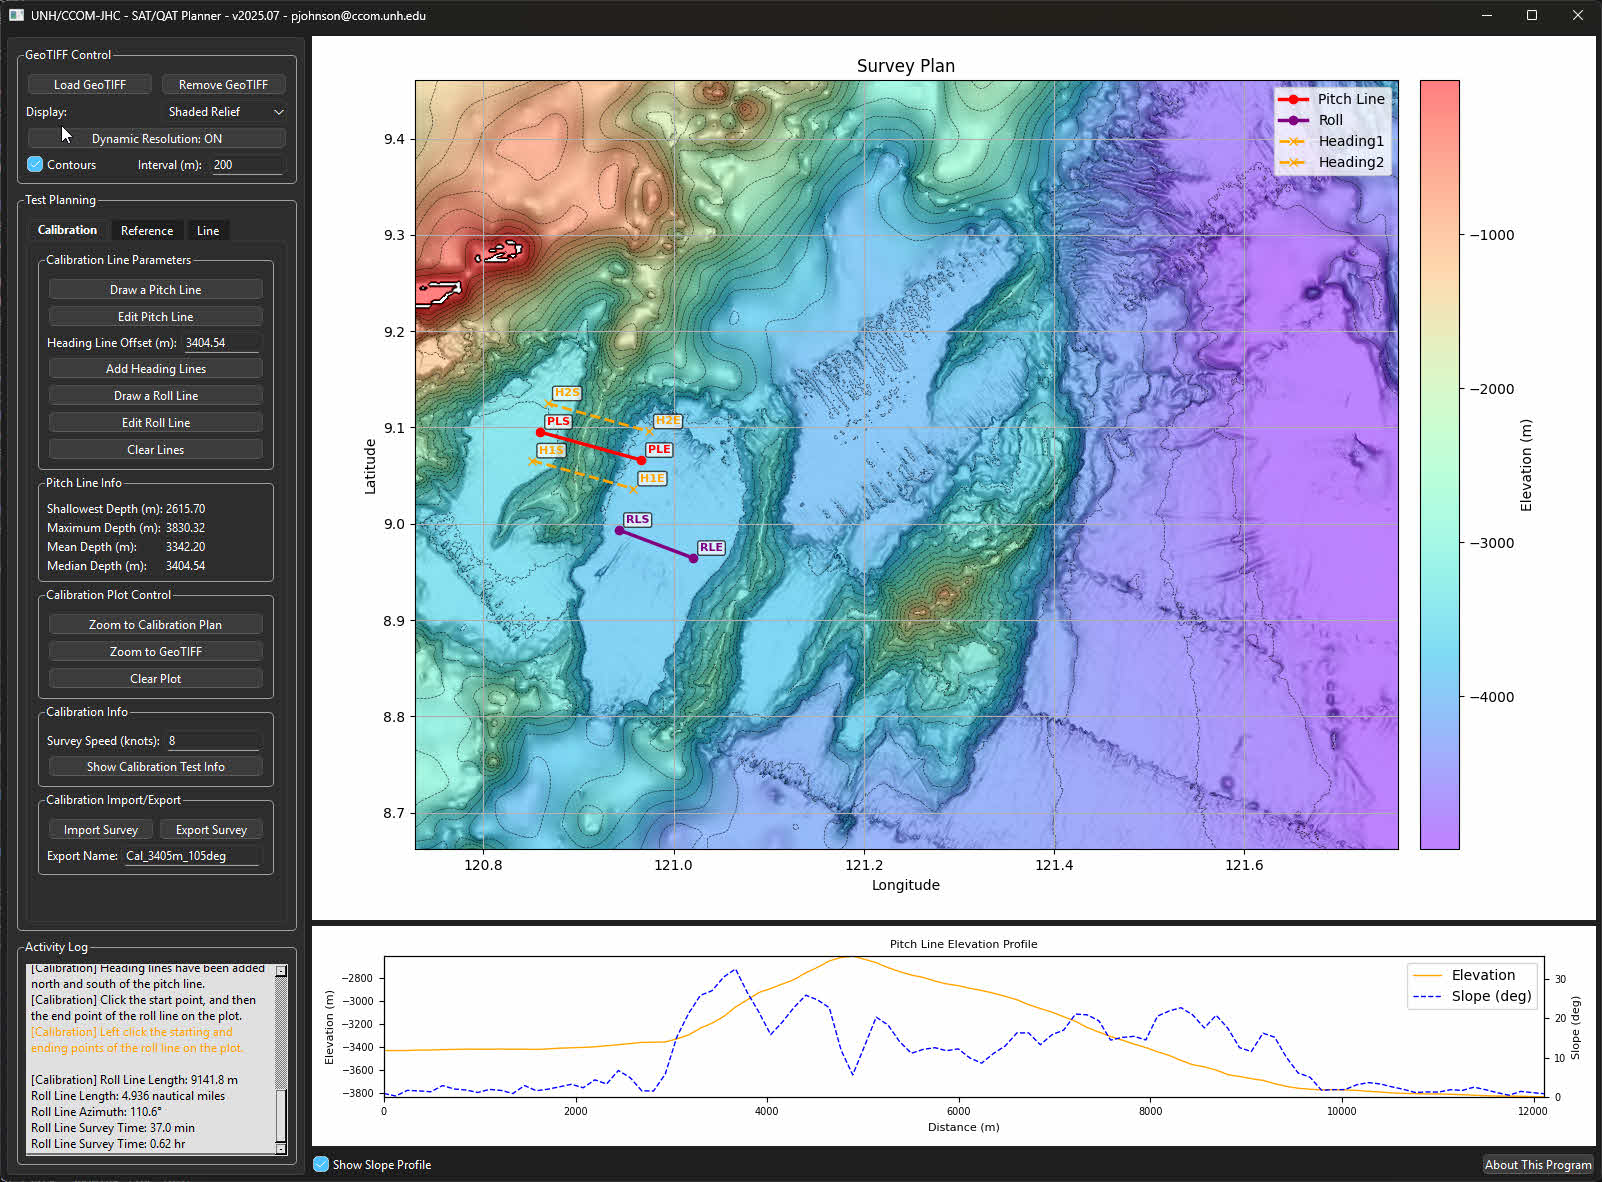
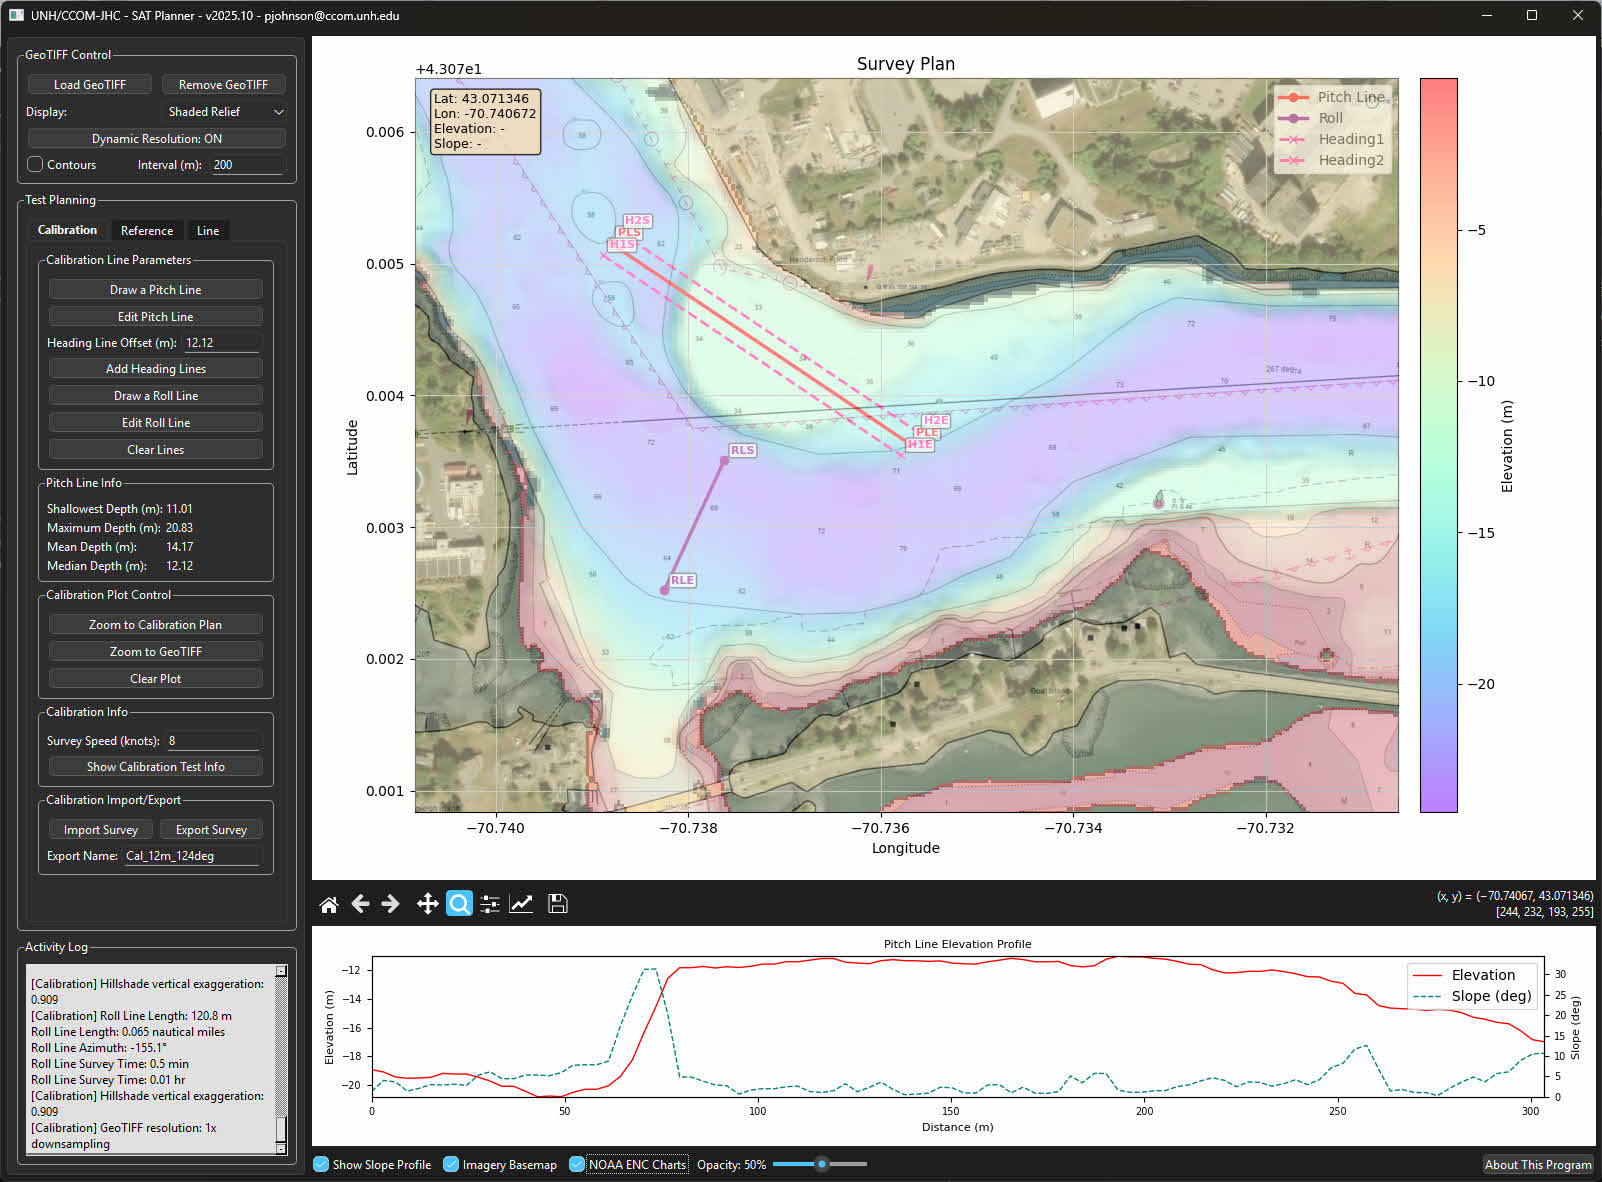
Add navigation toolbar at bottom and fix Dynamic Resolution for toolbar zoom
- Added matplotlib NavigationToolbar at bottom of map window
- Fixed Dynamic Resolution to work with toolbar zoom/pan tools
- Added draw_event handler to detect limit changes for Dynamic Resolution
- Updated README with navigation toolbar and map overlay documentation
- Updated build script and spec file for version 2025.10

diff --git a/SAT_Planner_PyQt.py b/SAT_Planner_PyQt.py
@@ -11,6 +11,7 @@ import matplotlib
 matplotlib.use('QtAgg')
 import matplotlib.pyplot as plt
 from matplotlib.backends.backend_qtagg import FigureCanvasQTAgg as FigureCanvas
+from matplotlib.backends.backend_qtagg import NavigationToolbar2QT as NavigationToolbar
 from matplotlib.colors import LightSource
 from matplotlib.figure import Figure
 import numpy as np
@@ -945,6 +946,9 @@ class SurveyPlanApp(QMainWindow):
         self.cid_middle_release = self.canvas.mpl_connect('button_release_event', self._on_middle_release)
         # Connect draw event for dynamic colormap scaling
         self.cid_draw = self.canvas.mpl_connect('draw_event', self._on_draw_event_update_colormap)
+        # Connect axis limit change events for Dynamic Resolution (toolbar zoom support)
+        self.cid_xlim_changed = self.ax.callbacks.connect('xlim_changed', self._on_axis_limits_changed)
+        self.cid_ylim_changed = self.ax.callbacks.connect('ylim_changed', self._on_axis_limits_changed)
 
         # Initialize buttons states based on library availability
         if not GEOSPATIAL_LIBS_AVAILABLE:
@@ -1976,6 +1980,9 @@ class SurveyPlanApp(QMainWindow):
         self.cid_middle_release = self.canvas.mpl_connect('button_release_event', self._on_middle_release)
         # Connect draw event for dynamic colormap scaling
         self.cid_draw = self.canvas.mpl_connect('draw_event', self._on_draw_event_update_colormap)
+        # Connect axis limit change events for Dynamic Resolution (toolbar zoom support)
+        self.cid_xlim_changed = self.ax.callbacks.connect('xlim_changed', self._on_axis_limits_changed)
+        self.cid_ylim_changed = self.ax.callbacks.connect('ylim_changed', self._on_axis_limits_changed)
 
         # Initialize buttons states based on library availability
         if not GEOSPATIAL_LIBS_AVAILABLE:
@@ -5094,6 +5101,103 @@ class SurveyPlanApp(QMainWindow):
         # Use draw_idle() for non-blocking updates during zoom
         self.canvas.draw_idle()
 
+    def _on_axis_limits_changed(self, ax):
+        """Callback for axis limit changes (e.g., from toolbar zoom/pan)."""
+        print(f"[DYNAMIC RES DEBUG] _on_axis_limits_changed called, ax={ax}, self.ax={self.ax}")
+        # Only process if this is the main axes
+        if ax != self.ax:
+            print(f"[DYNAMIC RES DEBUG] Not main axes, returning")
+            return
+        
+        # Skip if during rapid zoom mode (scroll wheel zoom)
+        if hasattr(self, '_rapid_zoom_mode') and self._rapid_zoom_mode:
+            return
+        
+        # Skip if limits are being set programmatically (e.g., during GeoTIFF loading)
+        if hasattr(self, '_setting_limits_programmatically') and self._setting_limits_programmatically:
+            return
+        
+        # Debounce: only process once per change event (both xlim and ylim will trigger)
+        # Use a flag to track if we're already processing this change
+        if not hasattr(self, '_processing_limit_change'):
+            self._processing_limit_change = False
+        
+        if self._processing_limit_change:
+            return
+        
+        self._processing_limit_change = True
+        # Clear the flag after a short delay
+        if not hasattr(self, '_limit_change_flag_timer'):
+            self._limit_change_flag_timer = QTimer()
+            self._limit_change_flag_timer.setSingleShot(True)
+            self._limit_change_flag_timer.timeout.connect(lambda: setattr(self, '_processing_limit_change', False))
+        self._limit_change_flag_timer.stop()
+        self._limit_change_flag_timer.start(100)
+        
+        print(f"[DYNAMIC RES DEBUG] Axis limits changed callback triggered")
+        
+        # Get current limits
+        current_xlim = self.ax.get_xlim()
+        current_ylim = self.ax.get_ylim()
+        
+        # Update Dynamic Resolution if GeoTIFF is loaded and dynamic resolution is enabled
+        if (self.geotiff_dataset_original is not None and 
+            self.dynamic_resolution_enabled and
+            hasattr(self, 'geotiff_extent') and self.geotiff_extent is not None):
+            
+            # Calculate zoom level based on the updated view
+            full_width = self.geotiff_extent[1] - self.geotiff_extent[0]
+            full_height = self.geotiff_extent[3] - self.geotiff_extent[2]
+            new_width = current_xlim[1] - current_xlim[0]
+            new_height = current_ylim[1] - current_ylim[0]
+            
+            # New zoom level is the ratio of current view to full extent
+            width_ratio = new_width / full_width if full_width > 0 else 1.0
+            height_ratio = new_height / full_height if full_height > 0 else 1.0
+            new_zoom_level = min(width_ratio, height_ratio)
+            new_zoom_level = max(0.01, min(10.0, new_zoom_level))
+            
+            # Update zoom level and reload GeoTIFF
+            old_zoom_level = getattr(self, 'geotiff_zoom_level', 1.0)
+            zoom_change = abs(new_zoom_level - old_zoom_level)
+            
+            print(f"[DYNAMIC RES DEBUG] Axis limits changed - old_zoom: {old_zoom_level:.4f}, new_zoom: {new_zoom_level:.4f}, change: {zoom_change:.4f}")
+            
+            # Only reload if zoom change is significant (to avoid excessive reloads)
+            if zoom_change > 0.05:  # 5% change threshold
+                print(f"[DYNAMIC RES DEBUG] Significant zoom change detected, updating resolution")
+                self.geotiff_zoom_level = new_zoom_level
+                self._last_user_xlim = current_xlim
+                self._last_user_ylim = current_ylim
+                
+                # Use a timer to debounce rapid limit changes
+                if not hasattr(self, '_limit_change_timer'):
+                    self._limit_change_timer = QTimer()
+                    self._limit_change_timer.setSingleShot(True)
+                    self._limit_change_timer.timeout.connect(self._reload_geotiff_at_current_zoom)
+                self._limit_change_timer.stop()
+                self._limit_change_timer.start(500)  # Wait 500ms for limit changes to stabilize
+            else:
+                print(f"[DYNAMIC RES DEBUG] Zoom change too small ({zoom_change:.4f}), skipping reload")
+        
+        # Reload basemap if enabled
+        if hasattr(self, 'show_imagery_basemap_var') and self.show_imagery_basemap_var:
+            if not hasattr(self, '_basemap_reload_timer'):
+                self._basemap_reload_timer = QTimer()
+                self._basemap_reload_timer.setSingleShot(True)
+                self._basemap_reload_timer.timeout.connect(self._load_and_plot_basemap)
+            self._basemap_reload_timer.stop()
+            self._basemap_reload_timer.start(150)
+        
+        # Reload NOAA charts if enabled
+        if hasattr(self, 'show_noaa_charts_var') and self.show_noaa_charts_var:
+            if not hasattr(self, '_noaa_charts_reload_timer'):
+                self._noaa_charts_reload_timer = QTimer()
+                self._noaa_charts_reload_timer.setSingleShot(True)
+                self._noaa_charts_reload_timer.timeout.connect(self._load_and_plot_noaa_charts)
+            self._noaa_charts_reload_timer.stop()
+            self._noaa_charts_reload_timer.start(150)
+
     def _zoom_to_plan(self):
         all_lats = []
         all_lons = []
@@ -7979,6 +8083,54 @@ class SurveyPlanApp(QMainWindow):
             traceback.print_exc()
 
     def _on_draw_event_update_colormap(self, event=None):
+        # Check for Dynamic Resolution updates (toolbar zoom/pan support)
+        # Track previous limits to detect changes
+        current_xlim = self.ax.get_xlim()
+        current_ylim = self.ax.get_ylim()
+        
+        # Check if limits have changed significantly (for Dynamic Resolution)
+        if (hasattr(self, '_last_draw_xlim') and hasattr(self, '_last_draw_ylim')):
+            xlim_changed = abs(current_xlim[0] - self._last_draw_xlim[0]) > 1e-6 or abs(current_xlim[1] - self._last_draw_xlim[1]) > 1e-6
+            ylim_changed = abs(current_ylim[0] - self._last_draw_ylim[0]) > 1e-6 or abs(current_ylim[1] - self._last_draw_ylim[1]) > 1e-6
+            
+            if xlim_changed or ylim_changed:
+                # Limits changed - check Dynamic Resolution
+                if (self.geotiff_dataset_original is not None and 
+                    self.dynamic_resolution_enabled and
+                    hasattr(self, 'geotiff_extent') and self.geotiff_extent is not None and
+                    not (hasattr(self, '_rapid_zoom_mode') and self._rapid_zoom_mode)):
+                    
+                    # Calculate zoom level
+                    full_width = self.geotiff_extent[1] - self.geotiff_extent[0]
+                    full_height = self.geotiff_extent[3] - self.geotiff_extent[2]
+                    new_width = current_xlim[1] - current_xlim[0]
+                    new_height = current_ylim[1] - current_ylim[0]
+                    
+                    width_ratio = new_width / full_width if full_width > 0 else 1.0
+                    height_ratio = new_height / full_height if full_height > 0 else 1.0
+                    new_zoom_level = min(width_ratio, height_ratio)
+                    new_zoom_level = max(0.01, min(10.0, new_zoom_level))
+                    
+                    old_zoom_level = getattr(self, 'geotiff_zoom_level', 1.0)
+                    zoom_change = abs(new_zoom_level - old_zoom_level)
+                    
+                    if zoom_change > 0.05:  # 5% change threshold
+                        self.geotiff_zoom_level = new_zoom_level
+                        self._last_user_xlim = current_xlim
+                        self._last_user_ylim = current_ylim
+                        
+                        # Use a timer to debounce rapid limit changes
+                        if not hasattr(self, '_limit_change_timer'):
+                            self._limit_change_timer = QTimer()
+                            self._limit_change_timer.setSingleShot(True)
+                            self._limit_change_timer.timeout.connect(self._reload_geotiff_at_current_zoom)
+                        self._limit_change_timer.stop()
+                        self._limit_change_timer.start(500)
+        
+        # Store current limits for next comparison
+        self._last_draw_xlim = current_xlim
+        self._last_draw_ylim = current_ylim
+        
         # Only update if elevation overlay is active and geotiff is loaded
         if not hasattr(self, 'geotiff_data_array') or self.geotiff_data_array is None:
             return
@@ -7989,8 +8141,8 @@ class SurveyPlanApp(QMainWindow):
         if not hasattr(self, 'geotiff_image_plot') or self.geotiff_image_plot is None:
             return
         display_data = self.geotiff_data_array
-        xlim = self.ax.get_xlim()
-        ylim = self.ax.get_ylim()
+        xlim = current_xlim
+        ylim = current_ylim
         left, right, bottom, top = tuple(self.geotiff_extent)
         nrows, ncols = display_data.shape
         col_min = int(np.clip((min(xlim) - left) / (right - left) * (ncols - 1), 0, ncols - 1))
@@ -9957,6 +10109,9 @@ class SurveyPlanApp(QMainWindow):
         self.canvas = FigureCanvas(self.figure)
         plot_layout.addWidget(self.canvas)
         self.canvas_widget = self.canvas  # For compatibility
+        # Add navigation toolbar at the bottom
+        self.toolbar = NavigationToolbar(self.canvas, self.plot_frame)
+        plot_layout.addWidget(self.toolbar)
         
         print(f"Widgets created - param_scroll: {self.param_scroll is not None}, plot_frame: {self.plot_frame is not None}, canvas: {self.canvas is not None}")
 

diff --git a/README.md b/README.md
@@ -49,6 +49,12 @@ The SAT/QAT Planner is a desktop application designed for planning and visualizi
 - Dynamic resolution loading for performance
 - Support for various coordinate reference systems (CRS)
 
+### Map Overlays
+- **Imagery Basemap**: Toggle satellite imagery basemap overlay with adjustable opacity
+- **NOAA ENC Charts**: Display NOAA Electronic Navigational Charts overlay with adjustable opacity
+- Both overlays support real-time updates as you pan and zoom
+- Overlays are properly reprojected to match your plot coordinate system
+
 ## Requirements
 
 ### Python Version
@@ -70,7 +76,7 @@ The SAT/QAT Planner is a desktop application designed for planning and visualizi
 ### Option 1: Using Pre-built Executable
 
 Download the latest executable from the [Releases](https://github.com/seamapper/SAT_Planner/releases) page:
-- `Sat_Planner_v2025.05.exe` (Windows)
+- `Sat_Planner_v2025.08.exe` (Windows) or newer
 
 No installation required - just run the executable.
 
@@ -115,7 +121,7 @@ build_exe.bat
 
 Or manually:
 ```bash
-pyinstaller Sat_Planner_v2025.05.spec
+pyinstaller Sat_Planner_v2025.08.spec
 ```
 
 The executable will be created in the `dist` folder.
@@ -125,11 +131,12 @@ The executable will be created in the `dist` folder.
 ### Basic Workflow
 
 1. **Load GeoTIFF** (optional): Click "Load GeoTIFF" to load elevation data for visualization
-2. **Select Planning Mode**: Choose between Calibration, Reference, or Line tabs
-3. **Configure Parameters**: Set survey parameters in the appropriate tab
-4. **Generate/Plan**: Create survey lines based on parameters or draw interactively
-5. **View Statistics**: Click "Show [Type] Test Info" to view survey statistics
-6. **Export**: Save survey plans using the Export buttons
+2. **Enable Map Overlays** (optional): Toggle Imagery Basemap or NOAA ENC Charts checkboxes and adjust opacity sliders
+3. **Select Planning Mode**: Choose between Calibration, Reference, or Line tabs
+4. **Configure Parameters**: Set survey parameters in the appropriate tab
+5. **Generate/Plan**: Create survey lines based on parameters or draw interactively
+6. **View Statistics**: Click "Show [Type] Test Info" to view survey statistics
+7. **Export**: Save survey plans using the Export buttons
 
 ### Calibration Survey Planning
 
@@ -161,6 +168,17 @@ The executable will be created in the `dist` folder.
 5. Edit by clicking "Edit Line Planning" and dragging waypoints
 6. View elevation profile and statistics
 7. Export the line plan
+
+### Map Overlays
+
+1. **Imagery Basemap**: Check the "Imagery Basemap" checkbox to overlay satellite imagery
+   - Adjust opacity using the slider (0-100%)
+   - The basemap updates automatically as you pan and zoom
+
+2. **NOAA ENC Charts**: Check the "NOAA ENC Charts" checkbox to overlay navigational charts
+   - Adjust opacity using the slider (0-100%)
+   - Charts are requested with equal cell size and properly reprojected for display
+   - Charts update automatically as you pan and zoom
 
 ## Configuration
 
@@ -215,6 +233,11 @@ The application will run with limited functionality if geospatial libraries aren
 
 ## Version History
 
+- **v2025.10**: Added Imagery Basemap and NOAA ENC Charts overlays with opacity controls, improved map visualization
+- **v2025.09**: Made profile colors coordinate with survey plot
+- **v2025.08**: Added About button to profile plot
+- **v2025.07**: Added ability to plan all tests simultaneously, fixed profile plot updates
+- **v2025.06**: Fixed labeling of waypoints in line planning tab, fixed preservation of lines when changing tabs
 - **v2025.05**: Added ability to plan all tests simultaneously, fixed profile plot updates, improved dynamic resolution
 - **v2025.04**: Converted to PyQt6
 - **v2025.03**: Added line planning, import/export of lines
